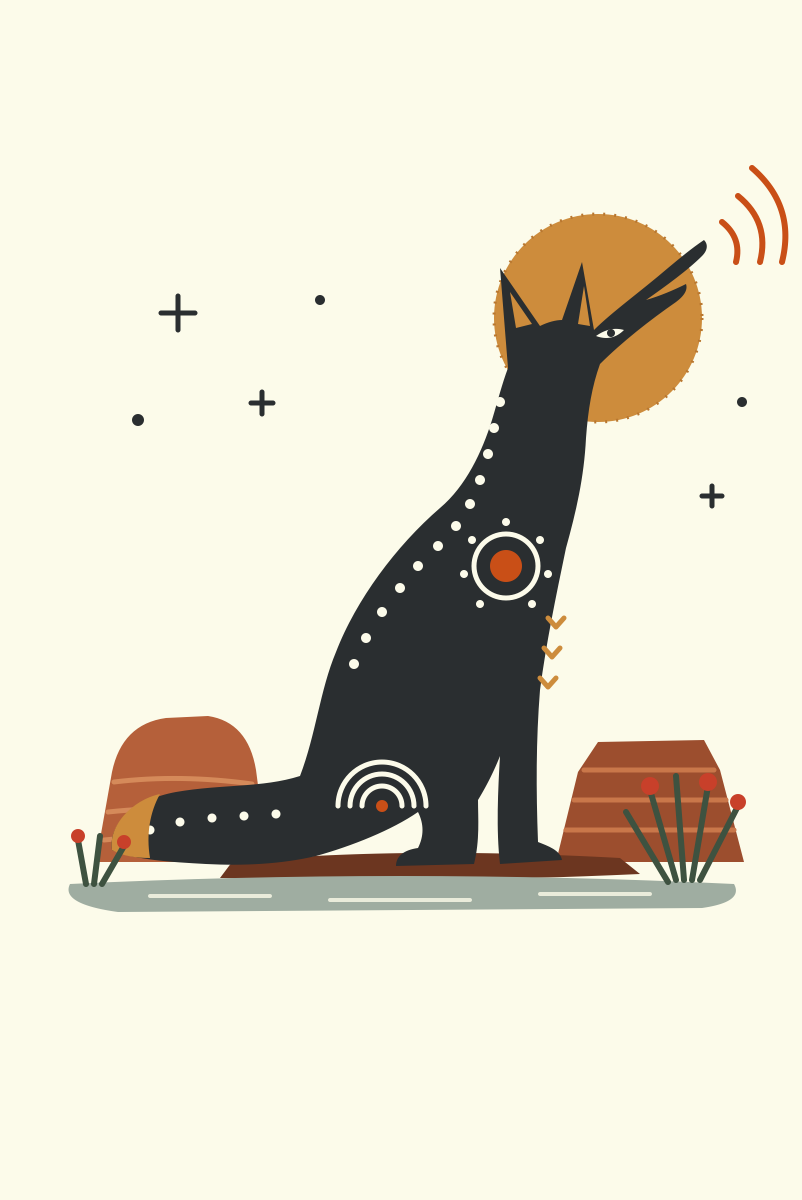
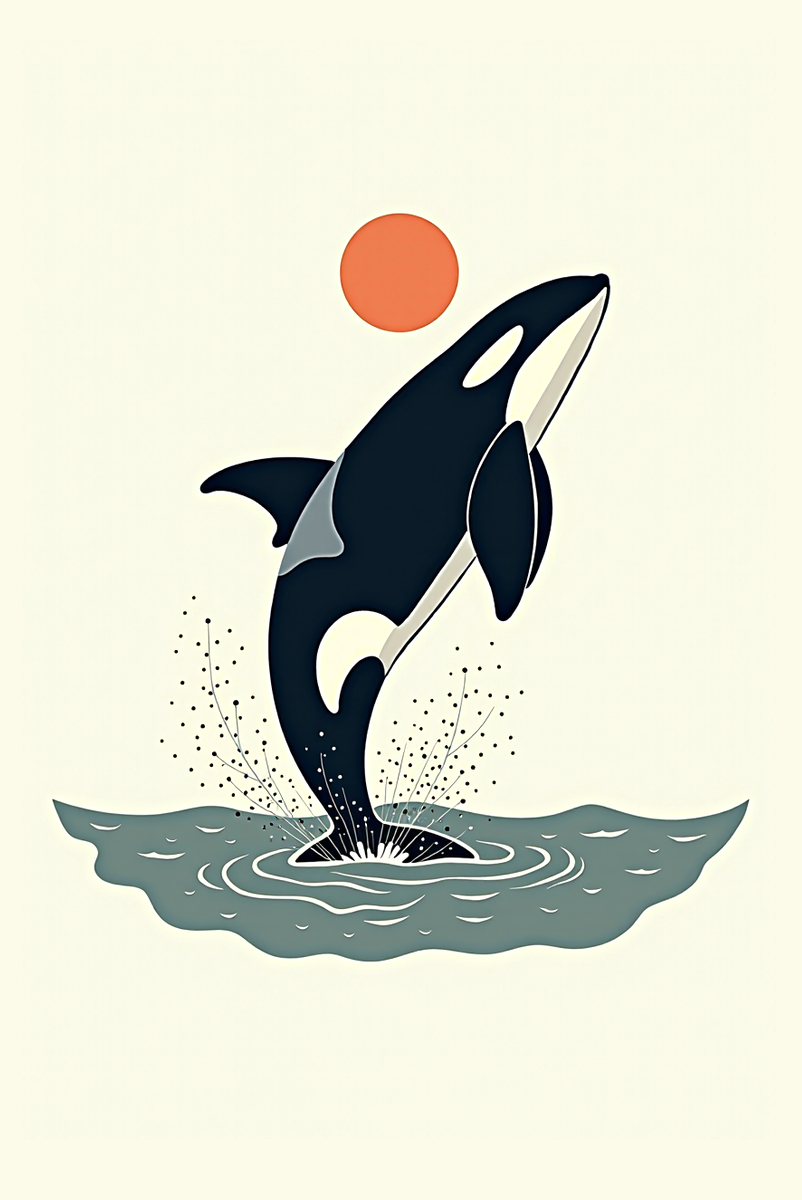
Stories card: the Forge orca; Book 1 loses its lake list and the seal stops covering the stamps
The Stories animal is now made the way the other five were: Forge's
minimalist-tshirt engine, the pelican's exact config (geometric silhouette,
two earth inks on natural cream, quality profile, 832x1216, guidance 5.5,
36 steps), seed 1104 of four, chosen by the owner. Framed to the set's rule
(centred on 401,587, about 700 wide) with the ground moved to the tote
cream; extent re-measured; the Stories back re-pinned (front unchanged).

Paddling Out 1: the 'Lakes' line under its stories is gone, and the SEALED
cancellation moves to the empty corner of the pile beside the last stamp,
where it no longer sits on the lake names.

diff --git a/src/css/stories.css b/src/css/stories.css
@@ -360,9 +360,6 @@ main{display:block;position:relative;z-index:1;overflow-x:clip}
 .btn:hover{text-decoration:underline;text-underline-offset:.2em}
 .btn-ghost{background:transparent;color:var(--ink);border-color:var(--edge)}
 .contents-title{margin:0 0 .4rem;padding-bottom:.6rem;border-bottom:1px solid var(--edge);font:600 .8rem/1 var(--f-label);letter-spacing:.22em;text-transform:uppercase;color:var(--muted)}
-.volume-lakes{display:flex;flex-wrap:wrap;gap:.3em .9em;margin:1.8rem 0 0;font-size:.95rem;color:var(--muted)}
-.volume-lakes span{font:600 .78rem/1.6 var(--f-label);letter-spacing:.16em;text-transform:uppercase}
-.volume-lakes a{color:var(--ink);text-decoration:underline;text-decoration-color:var(--violet);text-underline-offset:.2em}
 @media (max-width:560px){.toc-title{max-width:62%;font-size:1.15rem}}
 
 /* ── the library's identity: a masthead seal, and every volume a stamp in the album ── */
@@ -423,8 +420,7 @@ main{display:block;position:relative;z-index:1;overflow-x:clip}
   .cover-blank .seal{width:4.4rem}
   .cover-blank .blank-note{margin-top:.5rem;font-size:.52rem}
   .volume-lede{overflow:hidden}
-  .volume-actions,.contents-title,.volume-lakes{clear:both}
-}
+  .volume-actions,.contents-title,}
 
 /* ── the chart, quieter ── */
 .chart-place{opacity:.55}
@@ -551,11 +547,10 @@ mark.hl.smolder{animation:smolder 2.5s cubic-bezier(.3,.1,.3,1) both}
 .stamp-s.front .stamp-paper img{aspect-ratio:3 / 4}
 .stamp-paper span{display:block;margin-top:7%;font:600 .5rem/1.2 var(--f-label);letter-spacing:.12em;text-transform:uppercase;color:var(--stamp-violet);white-space:nowrap;overflow:hidden;text-overflow:ellipsis}
 .pile .cover-cancel{right:-1.2rem;top:-1.1rem;z-index:3}
-.pile-seal{position:absolute;left:31%;top:36%;width:38%;height:auto;z-index:3;color:var(--stamp-violet);transform:rotate(-14deg);filter:drop-shadow(0 0 2px var(--paper))}
+.pile-seal{position:absolute;left:-2%;top:77%;width:30%;height:auto;z-index:3;color:var(--stamp-violet);transform:rotate(-14deg);filter:drop-shadow(0 0 2px var(--paper))}
 @media (max-width:760px){
   .cover-wrap.pile{float:none;width:min(100%,21rem);max-width:21rem;margin:0 auto 18px}
-  .volume-actions,.contents-title,.volume-lakes{clear:both}
-}
+  .volume-actions,.contents-title,}
 @media (forced-colors: active){.stamp-paper{-webkit-mask:none;mask:none;border:1px solid CanvasText}}
 
 /* ── the video: YouTube's frame lies under the still. A tap on the still passes through to the

diff --git a/src/js/pages/card.js b/src/js/pages/card.js
@@ -2,14 +2,14 @@
  * pages/card.js — the collectible card (/card): lighting model, flip, inspect, QR.
  * Moved out of card.html on 12 Sep 2026 unchanged.
  */
-import { front, back, PRINT, BACK, ART_EXTENT, ART_COLUMN } from '/js/cards/render.js?v=39b8d76';
-import { engravedFor, stockOf, embossParams, reliefType, DIRS } from '/js/cards/skins/engraved.js?v=39b8d76';
-import { embossOf, stillCanvas } from '/js/cards/emboss.js?v=39b8d76';
-import { readFace, warmArt } from '/js/cards/relief.js?v=39b8d76';
-import { rest, step, clamp } from '/js/cards/attitude.js?v=39b8d76';
-import { lightFace, pointerLamp, v } from '/js/cards/lamp.js?v=39b8d76';
-import { dustMorph } from '/js/cards/morph.js?v=39b8d76';
-import { esc, apiBase } from '/js/kit.js?v=39b8d76';
+import { front, back, PRINT, BACK, ART_EXTENT, ART_COLUMN } from '/js/cards/render.js?v=01cba65';
+import { engravedFor, stockOf, embossParams, reliefType, DIRS } from '/js/cards/skins/engraved.js?v=01cba65';
+import { embossOf, stillCanvas } from '/js/cards/emboss.js?v=01cba65';
+import { readFace, warmArt } from '/js/cards/relief.js?v=01cba65';
+import { rest, step, clamp } from '/js/cards/attitude.js?v=01cba65';
+import { lightFace, pointerLamp, v } from '/js/cards/lamp.js?v=01cba65';
+import { dustMorph } from '/js/cards/morph.js?v=01cba65';
+import { esc, apiBase } from '/js/kit.js?v=01cba65';
 
 /* ── the light ─────────────────────────────────────────────────────────────
    One lamp. Everything the eye reads as light on this card — the glint, its
@@ -763,5 +763,5 @@ function show(i, { focus = false, relief = 'soon', fade = 0 } = {}) {
   // A rig for measuring the page on a real engine, only when the URL asks
   // for it. Never fetched otherwise. See cards/probe.js.
   const probe = new URLSearchParams(location.search).get('probe');
-  if (probe) import('/js/cards/probe.js?v=39b8d76').then((m) => m.run({ label: probe, setSkin, setInspect, att, grab, quiet: (on) => { quiet = !!on; }, parts: (p) => { reliefParts = p; } })).catch((err) => console.warn('card: probe —', err));
+  if (probe) import('/js/cards/probe.js?v=01cba65').then((m) => m.run({ label: probe, setSkin, setInspect, att, grab, quiet: (on) => { quiet = !!on; }, parts: (p) => { reliefParts = p; } })).catch((err) => console.warn('card: probe —', err));
 })();

diff --git a/src/stories.html b/src/stories.html
@@ -150,7 +150,6 @@
           <li class="toc-link"><span class="toc-no" aria-hidden="true">VII</span><span class="sr-only">Chapter 7: </span><span class="toc-title">Ambazari Lake</span><span class="toc-place">Nagpur · India</span><span class="toc-leader"></span><span class="toc-lock"><svg viewBox="0 0 11 13" aria-hidden="true" focusable="false"><rect x="1" y="5.5" width="9" height="7" rx="1.2" fill="currentColor"/><path d="M3 5.5V4a2.5 2.5 0 0 1 5 0v1.5" fill="none" stroke="currentColor" stroke-width="1.4"/></svg>Sealed</span></li>
           <li class="toc-link"><span class="toc-no" aria-hidden="true">VIII</span><span class="sr-only">Chapter 8: </span><span class="toc-title">Lake McDonald</span><span class="toc-place">Glacier · Montana</span><span class="toc-leader"></span><span class="toc-lock"><svg viewBox="0 0 11 13" aria-hidden="true" focusable="false"><rect x="1" y="5.5" width="9" height="7" rx="1.2" fill="currentColor"/><path d="M3 5.5V4a2.5 2.5 0 0 1 5 0v1.5" fill="none" stroke="currentColor" stroke-width="1.4"/></svg>Sealed</span></li>
         </ol>
-        <p class="volume-lakes"><span>Lakes</span> <a href="/paddlingout/forecast?id=jenny">Jenny Lake</a> <span aria-hidden="true">·</span> <span>String Lake</span> <span aria-hidden="true">·</span> <a href="/paddlingout/forecast?id=jackson">Jackson Lake</a> <span aria-hidden="true">·</span> <a href="/paddlingout/forecast?id=crescent">Lake Crescent</a> <span aria-hidden="true">·</span> <a href="/paddlingout/forecast?id=diablo">Diablo Lake</a> <span aria-hidden="true">·</span> <a href="/paddlingout/forecast?id=union">Lake Union</a> <span aria-hidden="true">·</span> <a href="/paddlingout/forecast?id=ambazari">Ambazari Lake</a> <span aria-hidden="true">·</span> <a href="/paddlingout/forecast?id=mcdonald">Lake McDonald</a></p>
       </div>
     </article>
   </section>

diff --git a/src/404.html b/src/404.html
@@ -1,14 +1,14 @@
 <!DOCTYPE html>
 <html lang="en" class="dark-theme">
 <head>
-  <script src="/js/site-features.js?v=39b8d76"></script>
+  <script src="/js/site-features.js?v=01cba65"></script>
   <script>
     // With scripts, the plain list waits for the deck instead of flashing first; if the deck
     // has not arrived in three seconds, the list is shown after all.
     document.documentElement.classList.add('deck');
     setTimeout(function () { if (!document.querySelector('.hand.dealt')) document.documentElement.classList.remove('deck'); }, 3000);
   </script>
-  <script src="/js/prod-config.js?v=39b8d76"></script>
+  <script src="/js/prod-config.js?v=01cba65"></script>
   <meta charset="utf-8">
   <meta name="viewport" content="width=device-width, initial-scale=1, viewport-fit=cover">
   <title>Page Not Found — Kaayko</title>
@@ -138,7 +138,7 @@
     <p>&copy; <span id="year">2026</span> Kaayko. All rights reserved.</p>
   </footer>
 
-  <script src="/js/vendor/qrcode-generator.js?v=39b8d76"></script>
-  <script type="module" src="/js/pages/not-found.js?v=39b8d76"></script>
+  <script src="/js/vendor/qrcode-generator.js?v=01cba65"></script>
+  <script type="module" src="/js/pages/not-found.js?v=01cba65"></script>
 </body>
 </html>

diff --git a/src/card.html b/src/card.html
@@ -1,7 +1,7 @@
 <!doctype html>
 <html lang="en" class="card-page">
 <head>
-<script src="/js/prod-config.js?v=39b8d76"></script>
+<script src="/js/prod-config.js?v=01cba65"></script>
 <meta charset="utf-8">
 <meta name="viewport" content="width=device-width, initial-scale=1, viewport-fit=cover">
 <title>Kaayko — the card</title>
@@ -581,7 +581,7 @@ a { color: inherit; text-decoration: none; }
      control still said "Bone" on a device the server had already been sending
      "American Psycho" to for an hour. The query changes when the build does,
      so a stale module cannot be reached. -->
-<script src="/js/vendor/qrcode-generator.js?v=39b8d76"></script>
-<script type="module" src="/js/pages/card.js?v=39b8d76"></script>
+<script src="/js/vendor/qrcode-generator.js?v=01cba65"></script>
+<script type="module" src="/js/pages/card.js?v=01cba65"></script>
 </body>
 </html>

diff --git a/src/js/cards/render.js b/src/js/cards/render.js
@@ -84,7 +84,7 @@ export const PRINT = Object.freeze({
   textFilter: "",
 });
 
-import { esc } from "/js/kit.js?v=39b8d76";
+import { esc } from "/js/kit.js?v=01cba65";
 export { esc };
 
 /**
@@ -169,7 +169,7 @@ export const BACK = Object.freeze({
  */
 export const ART_EXTENT = Object.freeze({
   paddlingout: Object.freeze({ x:  49, y: 270, w: 703, h:  634 }),
-  stories:     Object.freeze({ x:  68, y: 165, w: 721, h:  747 }),
+  stories:     Object.freeze({ x:  52, y: 213, w: 698, h:  749 }),
   forge:       Object.freeze({ x:  80, y: 190, w: 641, h:  795 }),
   kortex:      Object.freeze({ x:  80, y: 282, w: 642, h:  611 }),
   kaayko:      Object.freeze({ x:  82, y: 363, w: 639, h:  451 }),

diff --git a/src/js/pages/not-found.js b/src/js/pages/not-found.js
@@ -16,8 +16,8 @@
  * a reader without scripts, or with a network that drops the module, still
  * gets out.
  */
-import { front, back, PRINT } from '/js/cards/render.js?v=39b8d76';
-import { esc, apiBase } from '/js/kit.js?v=39b8d76';
+import { front, back, PRINT } from '/js/cards/render.js?v=01cba65';
+import { esc, apiBase } from '/js/kit.js?v=01cba65';
 
 const hand = document.getElementById('hand');
 const pathEl = document.getElementById('nf-path');

diff --git a/src/js/kit.js b/src/js/kit.js
@@ -8,8 +8,8 @@
  *
  * Money helpers come from priceMap.js, the client's one price authority.
  */
-import '/js/util.js?v=39b8d76';
-export { money, priceCents, priceText } from '/js/priceMap.js?v=39b8d76';
+import '/js/util.js?v=01cba65';
+export { money, priceCents, priceText } from '/js/priceMap.js?v=01cba65';
 
 const U = window.KaaykoUtil;
 
